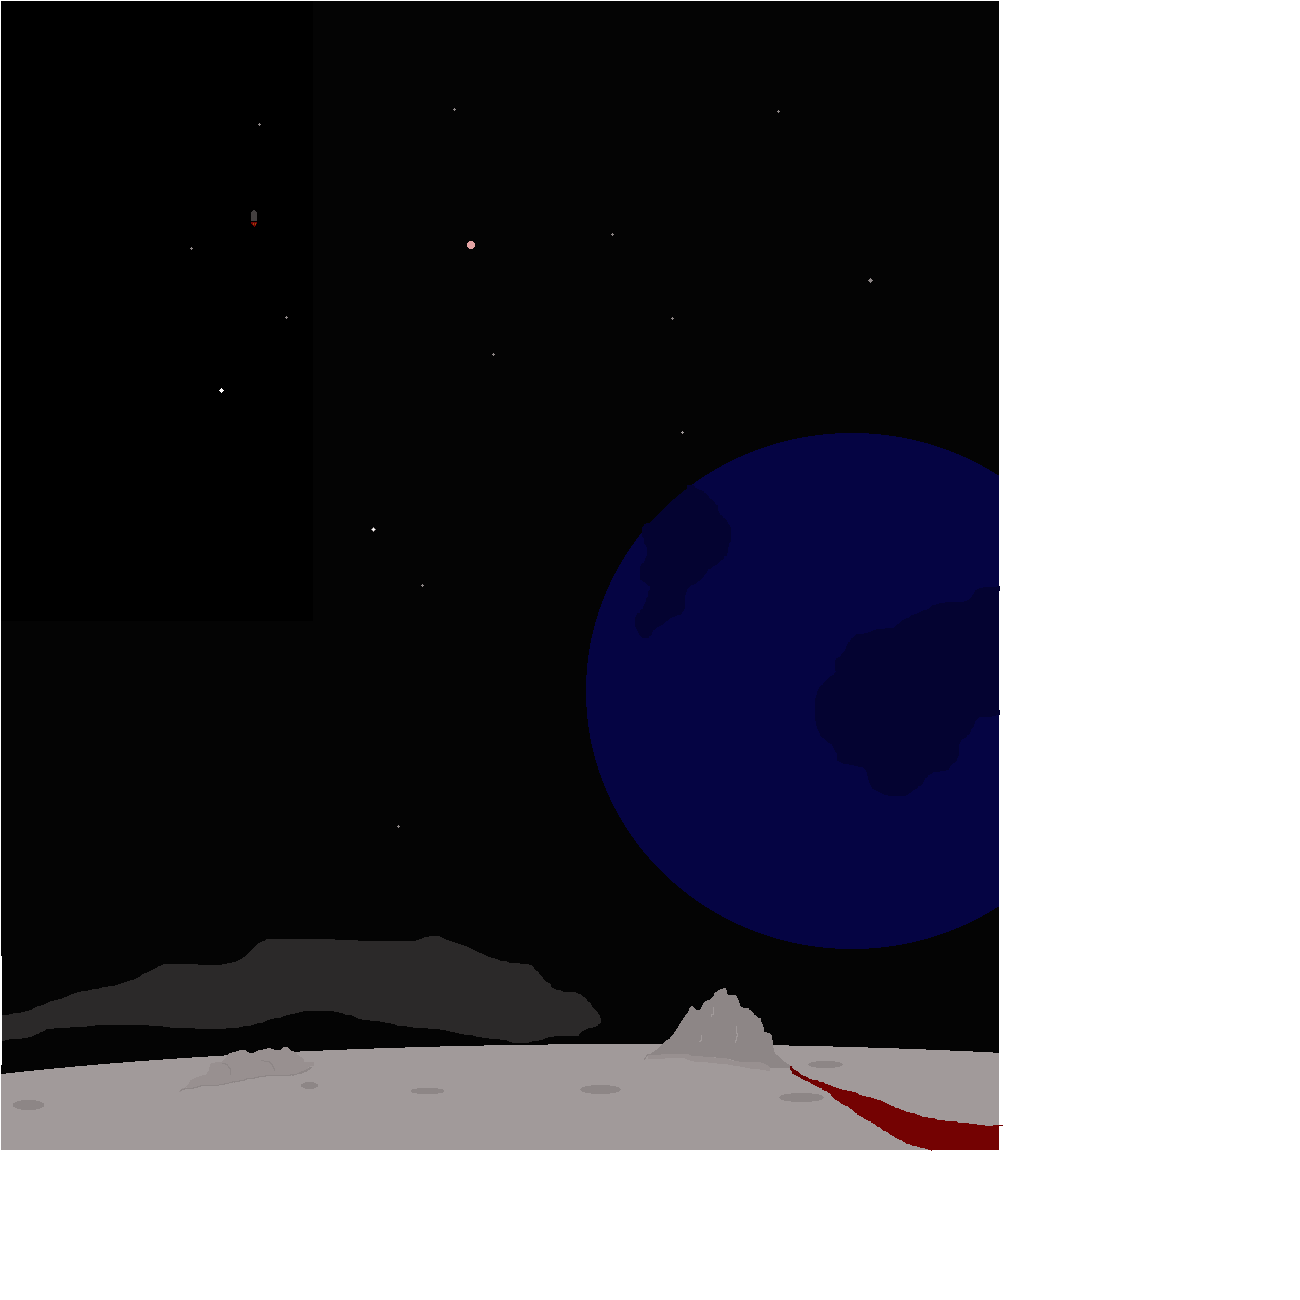
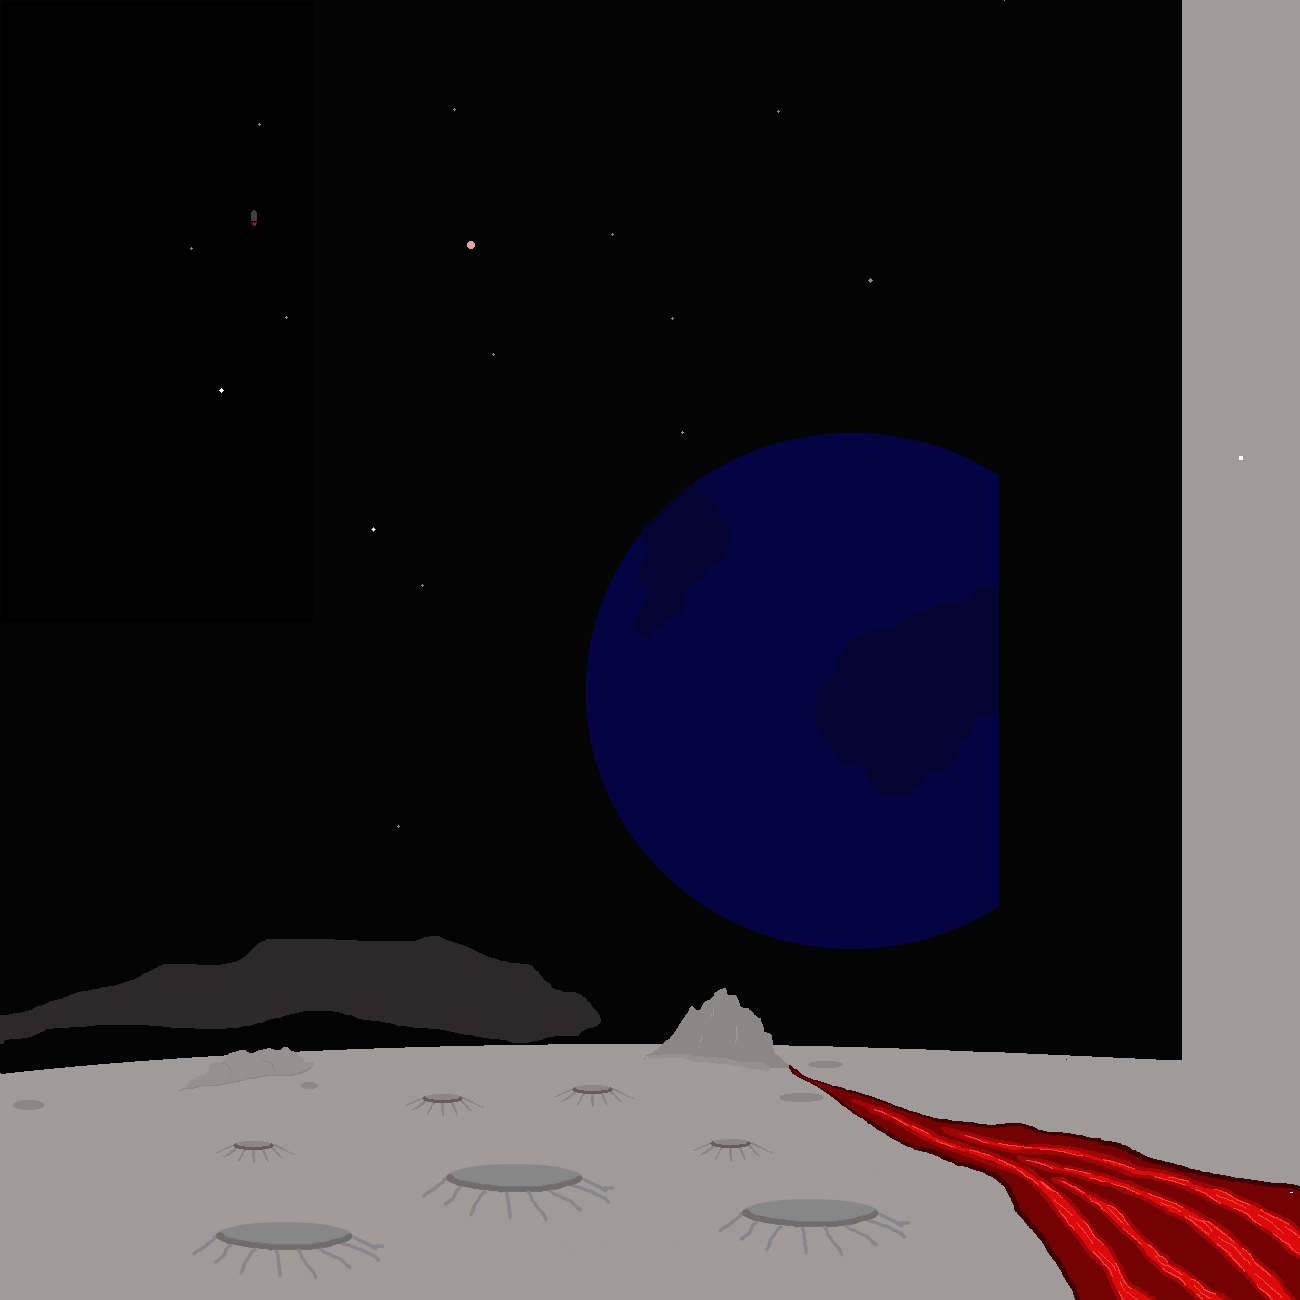
Add new visialus to the moon levels

diff --git a/js/scripts.js b/js/scripts.js
@@ -1,4 +1,11 @@
 $(document).ready(function(){
+
+  $(".title-screen").show();
+  setTimeout(function() {
+    $(".title-screen").fadeOut(100);
+  }, 5000);
+
+
   $("#click-here").click(function(event) {
     event.preventDefault();
     $(".end-screen").fadeIn(1000);

diff --git a/index.html b/index.html
@@ -53,7 +53,7 @@
     </div>
     <div class="highscores">
       <h2>High Scores</h2>
-        <ul></ul>
+        <ul id="scoreResults"></ul>
     </div>
   </div>
 

diff --git a/css/styles.css b/css/styles.css
@@ -32,8 +32,8 @@ body {
 }
 
 .title-screen {
-  top: 12%;
-  left: 25%;
+  top: 20.5%;
+  left: 25.5%;
 
   position: absolute;
   background-color: #000000;
